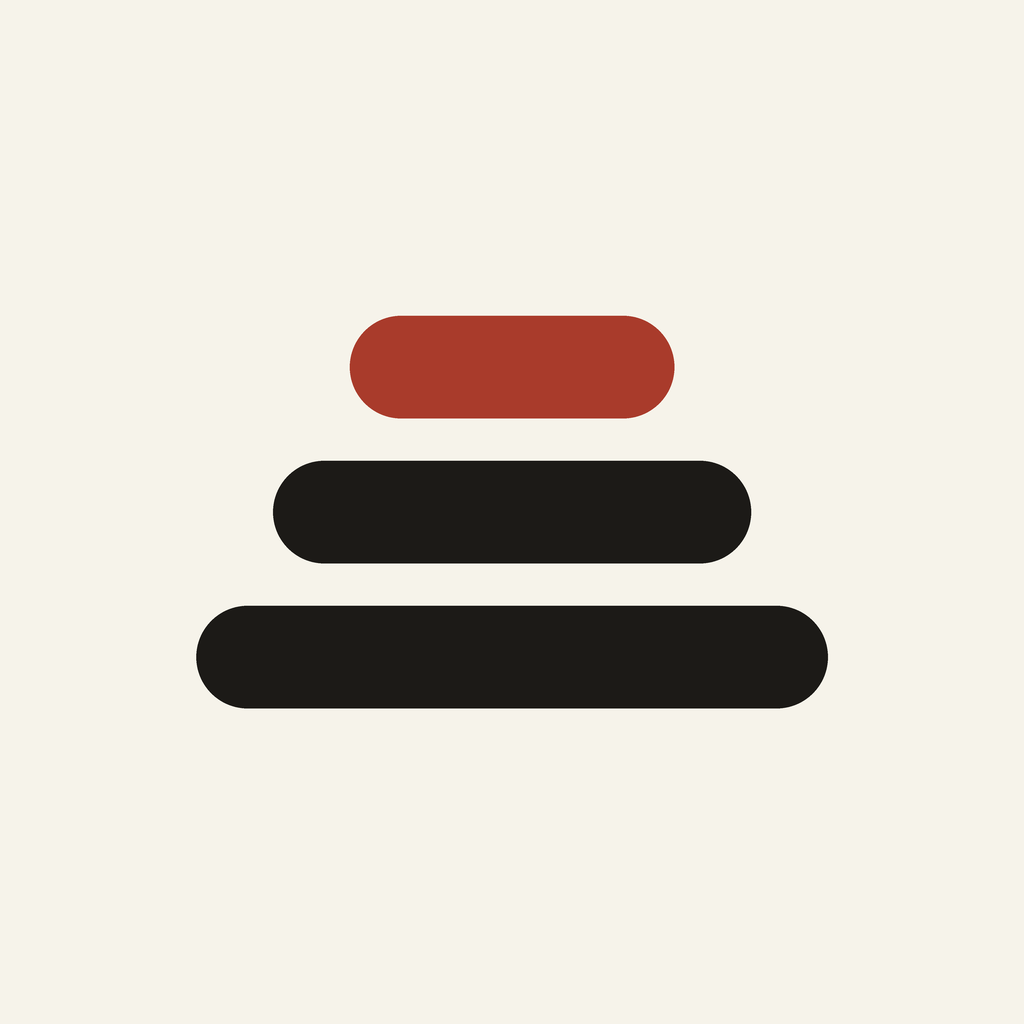
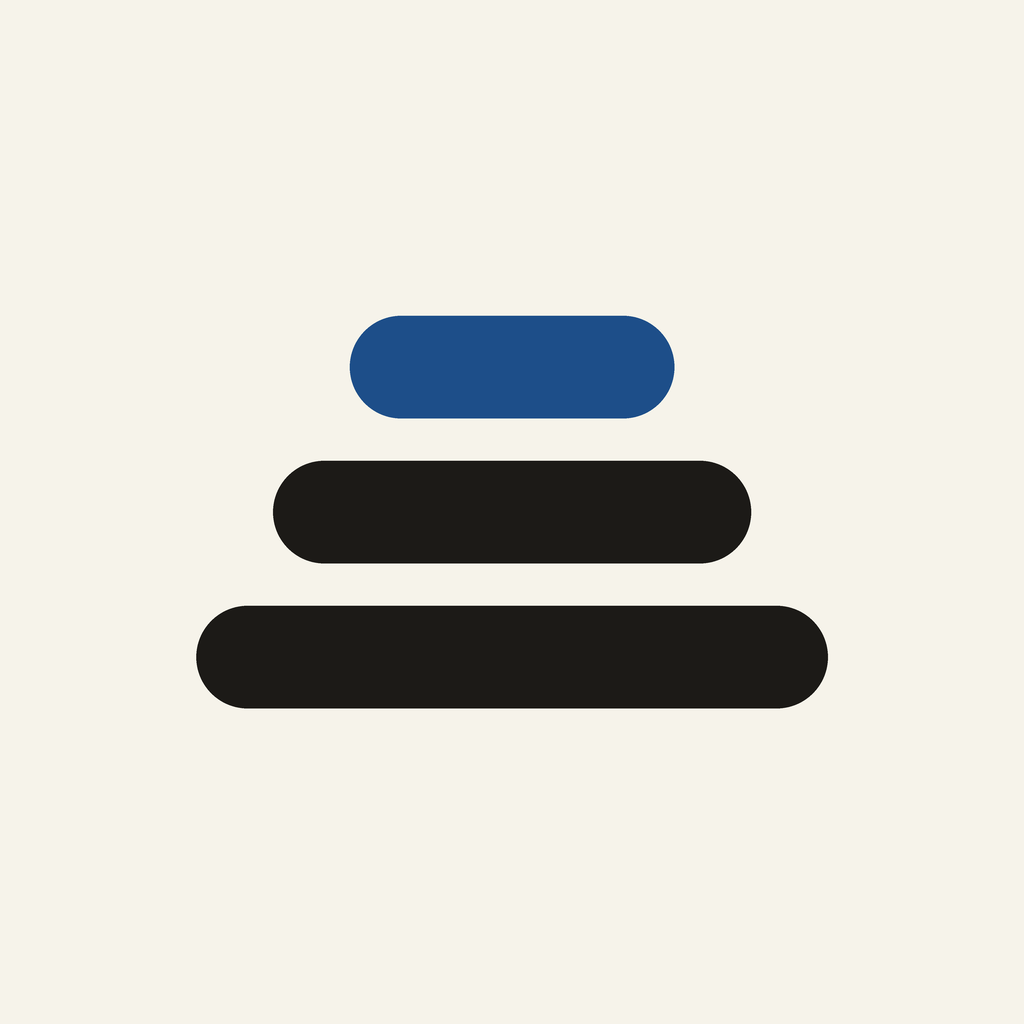
カードを角丸に統一し、アクセント色を朱から藍に変更
ホーム画面のカードだけ角丸3ptで他タブのリスト行と揃っていなかったため、
CardModifier の角丸を18pt(insetGrouped 相当)に変更。
「今日」を示すアクセント色を朱(#A93B2B)から藍(#1D4E89)に変更し、
アプリアイコンの最上段も同じ藍で書き出し直した。

Changed region(s): [[0.3438, 0.2812, 0.6562, 0.4062]]

diff --git a/TrackStack/Shared/Theme.swift b/TrackStack/Shared/Theme.swift
@@ -2,7 +2,7 @@ import SwiftUI
 import UIKit
 
 /// アプリ全体の色を集約する「和紙と墨」テーマ。すべてライト/ダーク対応のダイナミックカラー。
-/// 朱(shu)は「今日」を示すときにのみ使う特別な色。警告や汎用の強調には使わない。
+/// 藍(ai)は「今日」を示すときにのみ使う特別な色。警告や汎用の強調には使わない。
 enum Theme {
     /// 画面全体の背景(地)
     static let paper = dynamicColor(light: 0xF6F3EA, dark: 0x16150F)
@@ -14,8 +14,8 @@ enum Theme {
     static let inkSecondary = dynamicColor(light: 0x6B6555, dark: 0xA49D8E)
     /// カード罫線・区切り線
     static let rule = dynamicColor(light: 0xE2DCCC, dark: 0x302E25)
-    /// 朱。「今日」を示すときにだけ使う
-    static let shu = dynamicColor(light: 0xA93B2B, dark: 0xD06450)
+    /// 藍。「今日」を示すときにだけ使う(読書カテゴリの青より濃く彩度を上げて区別する)
+    static let ai = dynamicColor(light: 0x1D4E89, dark: 0x8FB6F5)
 
     /// ライト/ダークそれぞれの16進カラーコードからダイナミックな Color を作る
     static func dynamicColor(light: UInt32, dark: UInt32) -> Color {
@@ -42,14 +42,18 @@ extension Font {
     }
 }
 
-/// カードの共通見た目。角丸3px・1px罫線・Theme.surface背景。影は使わない。
+/// カードの共通見た目。角丸18pt・1px罫線・Theme.surface背景。影は使わない。
+/// 角丸は記録・ライブラリ画面のリスト行(insetGrouped)と揃えている。
 struct CardModifier: ViewModifier {
+    /// リスト行と揃えるカードの角丸
+    static let cornerRadius: CGFloat = 18
+
     func body(content: Content) -> some View {
         content
             .background(Theme.surface)
-            .clipShape(RoundedRectangle(cornerRadius: 3))
+            .clipShape(RoundedRectangle(cornerRadius: Self.cornerRadius, style: .continuous))
             .overlay(
-                RoundedRectangle(cornerRadius: 3)
+                RoundedRectangle(cornerRadius: Self.cornerRadius, style: .continuous)
                     .stroke(Theme.rule, lineWidth: 1)
             )
     }

diff --git a/TrackStack/Features/History/CalendarView.swift b/TrackStack/Features/History/CalendarView.swift
@@ -143,7 +143,7 @@ struct MonthCalendarView: View {
             )
             .overlay(
                 RoundedRectangle(cornerRadius: 8)
-                    .stroke(isToday ? Theme.shu : Color.clear, lineWidth: 1.5)
+                    .stroke(isToday ? Theme.ai : Color.clear, lineWidth: 1.5)
             )
         }
         .buttonStyle(.plain)

diff --git a/TrackStack/Features/Dashboard/DashboardView.swift b/TrackStack/Features/Dashboard/DashboardView.swift
@@ -131,7 +131,7 @@ struct DashboardView: View {
                 if streak > 0 {
                     Label("\(streak)日継続中", systemImage: "flame.fill")
                         .font(.subheadline.bold())
-                        .foregroundStyle(Theme.shu)
+                        .foregroundStyle(Theme.ai)
                 }
             }
 

diff --git a/design/make_icon.py b/design/make_icon.py
@@ -1,6 +1,6 @@
 """ひとつみ アプリアイコン(案A 積画)を 1024px で書き出す。
 
-「一」の画を3本積み上げ、最上段だけを朱にする。
+「一」の画を3本積み上げ、最上段だけを藍にする。
 最上段 = 今日積んだひとつ。下へ向かって長くなることで積み上がりの安定感を出す。
 """
 
@@ -11,14 +11,14 @@ S = SIZE / 120.0  # 120 の設計座標系から 1024 へのスケール
 
 PAPER = (246, 243, 234)  # #F6F3EA 和紙
 SUMI = (28, 26, 23)      # #1C1A17 墨
-SHU = (169, 59, 43)      # #A93B2B 朱
+AI = (29, 78, 137)       # #1D4E89 藍
 
-# (x, y, w, h, color) — 設計座標系(120)。上段が朱、下二段が墨。
+# (x, y, w, h, color) — 設計座標系(120)。上段が藍、下二段が墨。
 # 段の間隔(5)は画の高さ(12)より狭くし、「並んでいる」ではなく「積まれている」に見せる。
 BARS = [
     (23.0, 71.0, 74.0, 12.0, SUMI),   # 下段
     (32.0, 54.0, 56.0, 12.0, SUMI),   # 中段
-    (41.0, 37.0, 38.0, 12.0, SHU),    # 上段 = 今日
+    (41.0, 37.0, 38.0, 12.0, AI),     # 上段 = 今日
 ]
 
 
